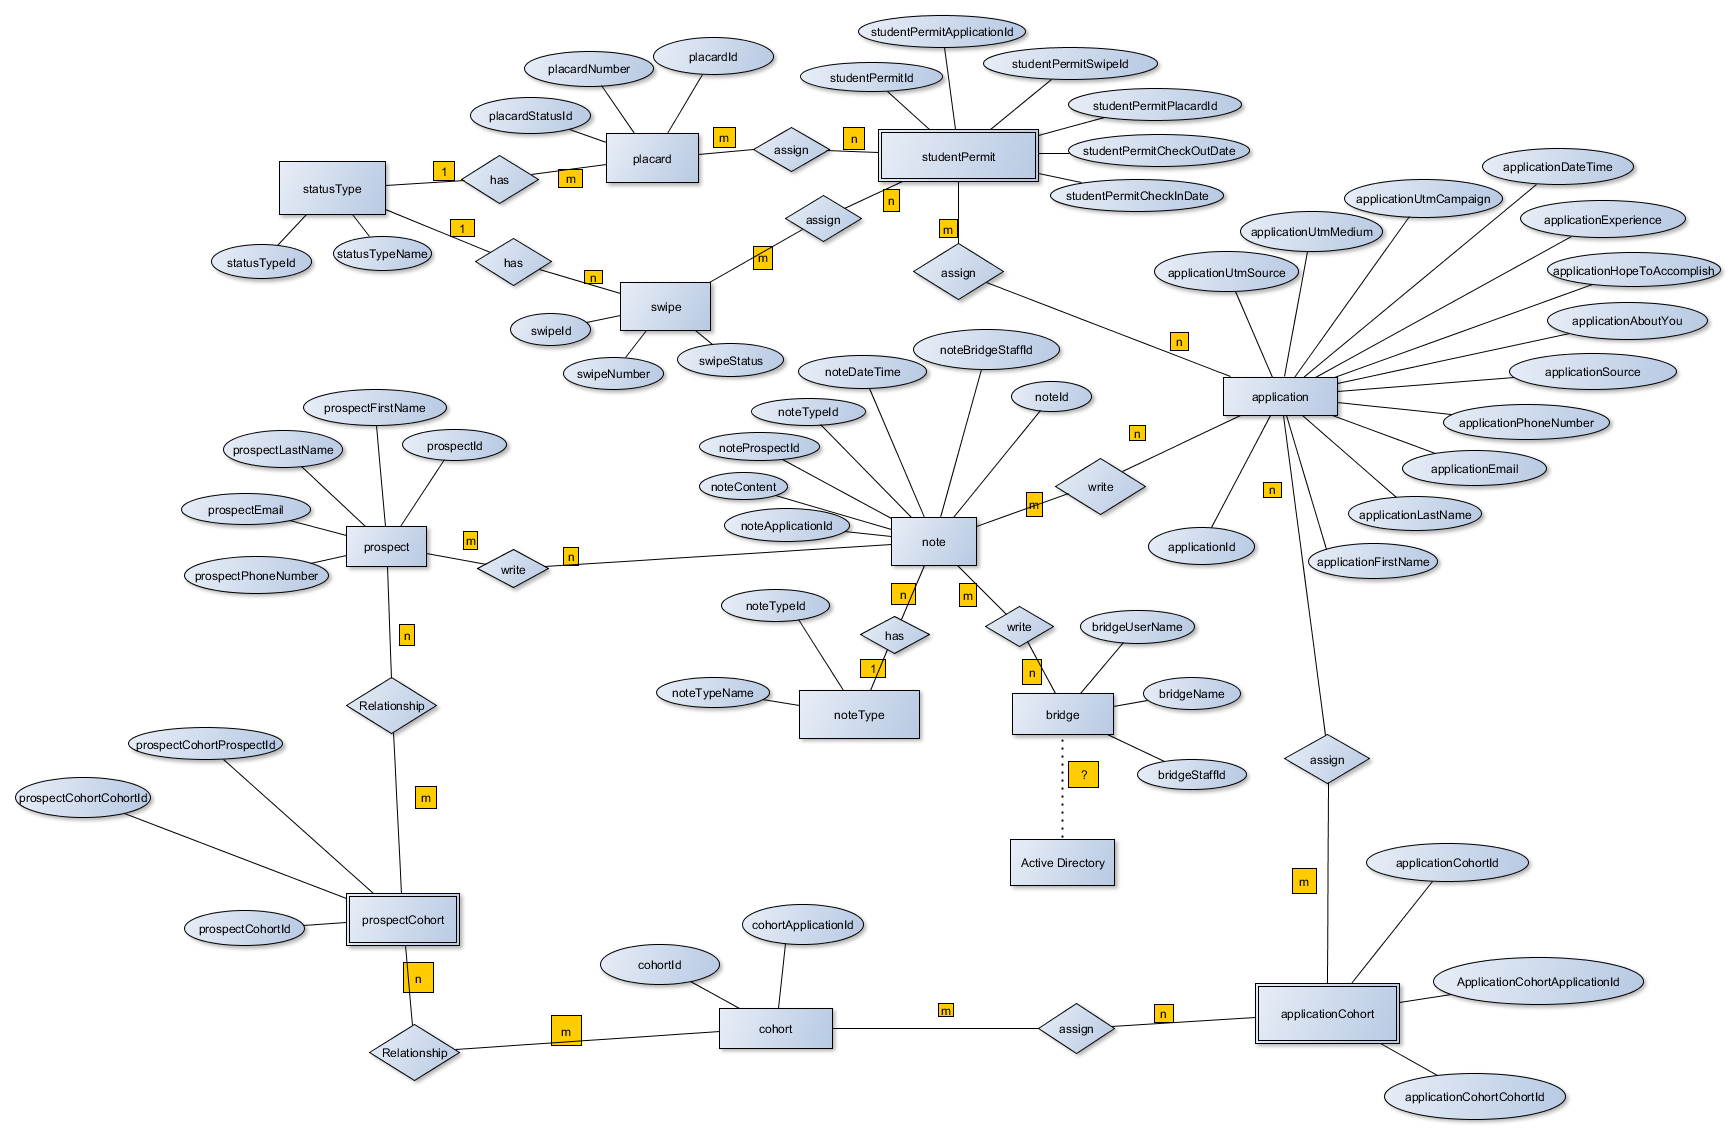
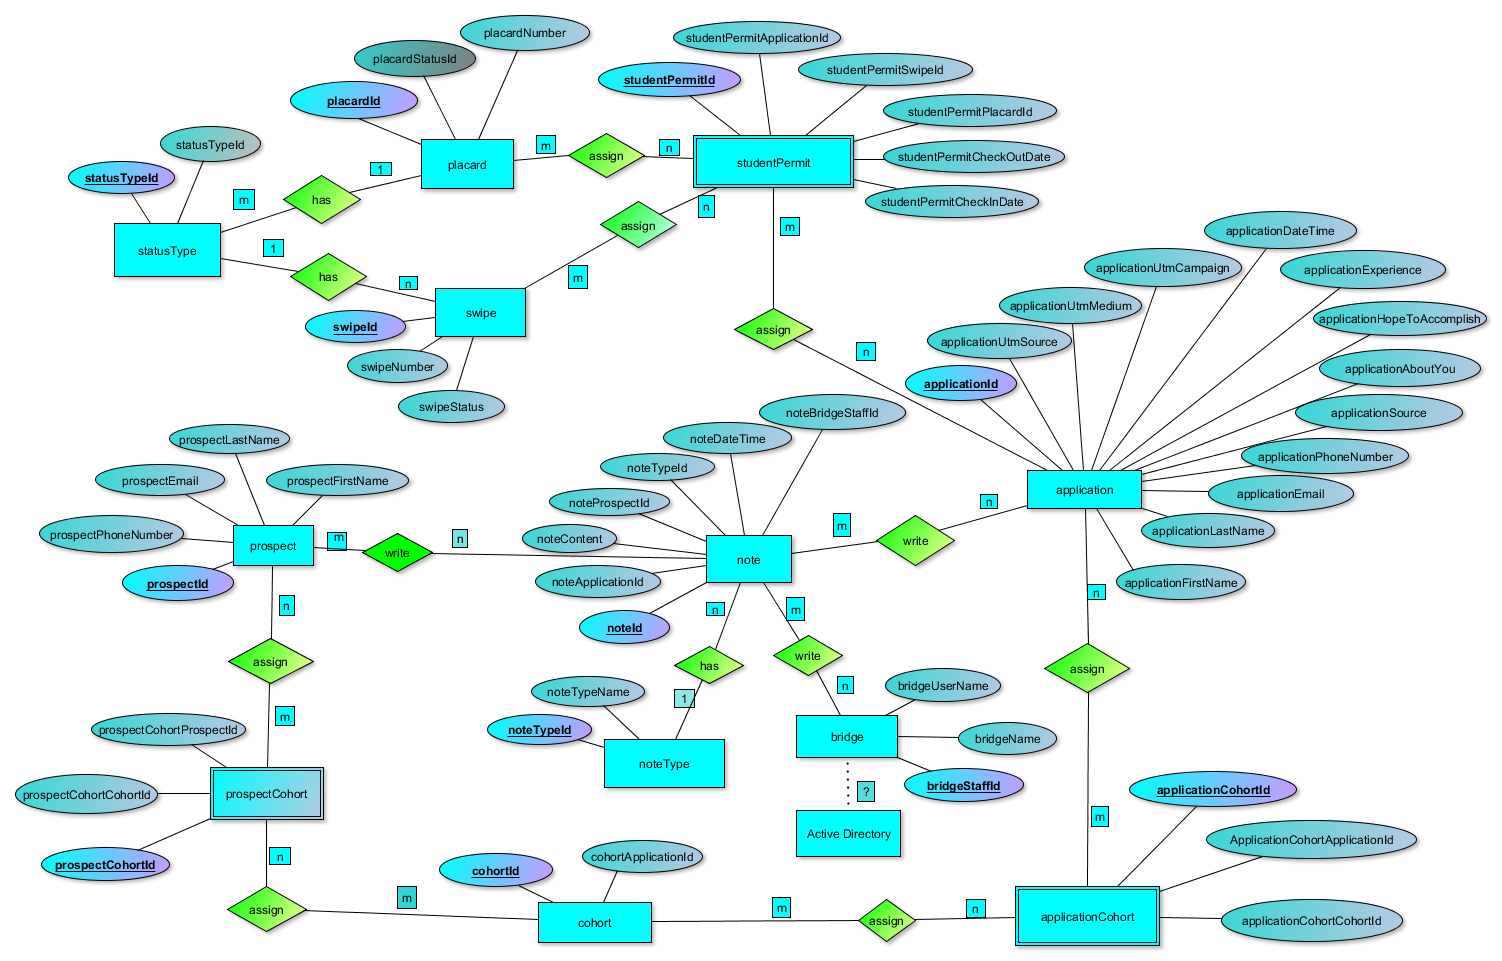
Edited bl

diff --git a/epic/backlog.php b/epic/backlog.php
@@ -9,25 +9,27 @@
 		<h1>Backlog</h1>
 		<ul>
 			<li>
-				create mySQL tables / database structure
-				entities / PHP classes
+				Create mySQL tables / database structure
+				Entities / PHP classes
 			</li>
 			<li>
-				front end design / wireframe
+
+
+				Front end design / wireframe
 				<ul>
 					<li>
-						view for applicants
+						View for applicants
 					</li>
 					<li>
-						view for andrea / administrators
+						View for andrea / administrators
 					</li>
 				</ul>
 			</li>
 			<li>
-				make ERD diagram
+				Make ERD diagram
 			</li>
 			<li>
-				finish epic
+				Finish epic
 			</li>
 		</ul>
 	</body>
